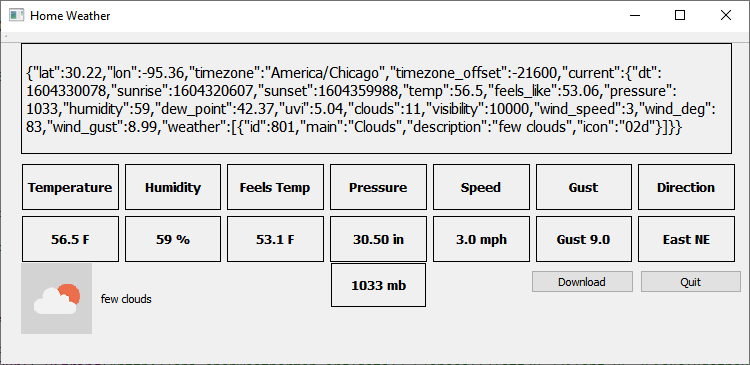
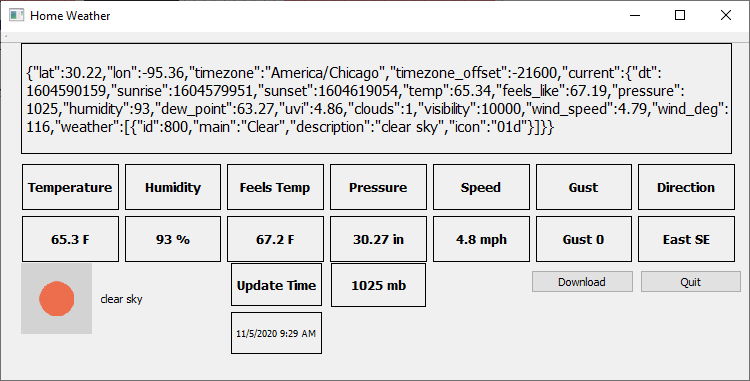
Added update time label and code

diff --git a/mainwindow.cpp b/mainwindow.cpp
@@ -56,7 +56,7 @@ void MainWindow::on_downloadButton_clicked()
     QObject::connect(&mgr, SIGNAL(finished(QNetworkReply*)), &eventLoop, SLOT(quit()));
 
     // the HTTP request to openweathermap.com
-    QNetworkRequest req( QUrl( QString("http://api.openweathermap.org/data/2.5/onecall?lat=30.22&lon=-95.36&exclude=hourly,minutely,alerts,daily&units=imperial&appid={add your openweathermap.org id}") ) );
+    QNetworkRequest req( QUrl( QString("http://api.openweathermap.org/data/2.5/onecall?lat=30.22&lon=-95.36&exclude=hourly,minutely,alerts,daily&units=imperial&appid={your own key}") ) );
     QNetworkReply *reply = mgr.get(req);
     eventLoop.exec(); // blocks stack until "finished()" has been called
 
@@ -111,6 +111,15 @@ void MainWindow::on_downloadButton_clicked()
 //        qDebug() << w;
 //        qDebug() << h;
 //        ui->icn_lbl->setPixmap(pixmap.scaled(w,h,Qt::KeepAspectRatio));
+
+        // Get time and date from openweathermap.org
+        // Convert Unix date time to standard format date time and display it in label
+
+        int unixTime = current_map["dt"].toInt();
+        QDateTime timestamp;
+        timestamp.setTime_t(unixTime);
+        //qDebug() << timestamp.toString(Qt::SystemLocaleShortDate);
+        ui->time_lbl->setText(timestamp.toString(Qt::SystemLocaleShortDate));
 
         double temp_num = current_map["temp"].toDouble();  //Convert  string to double to limit decimal places
         QString temp_str = QString::number(temp_num, 'f', 1);  //Convert double to string to display in label the "(num,'f',2)" formats for 2 decimal places only.
